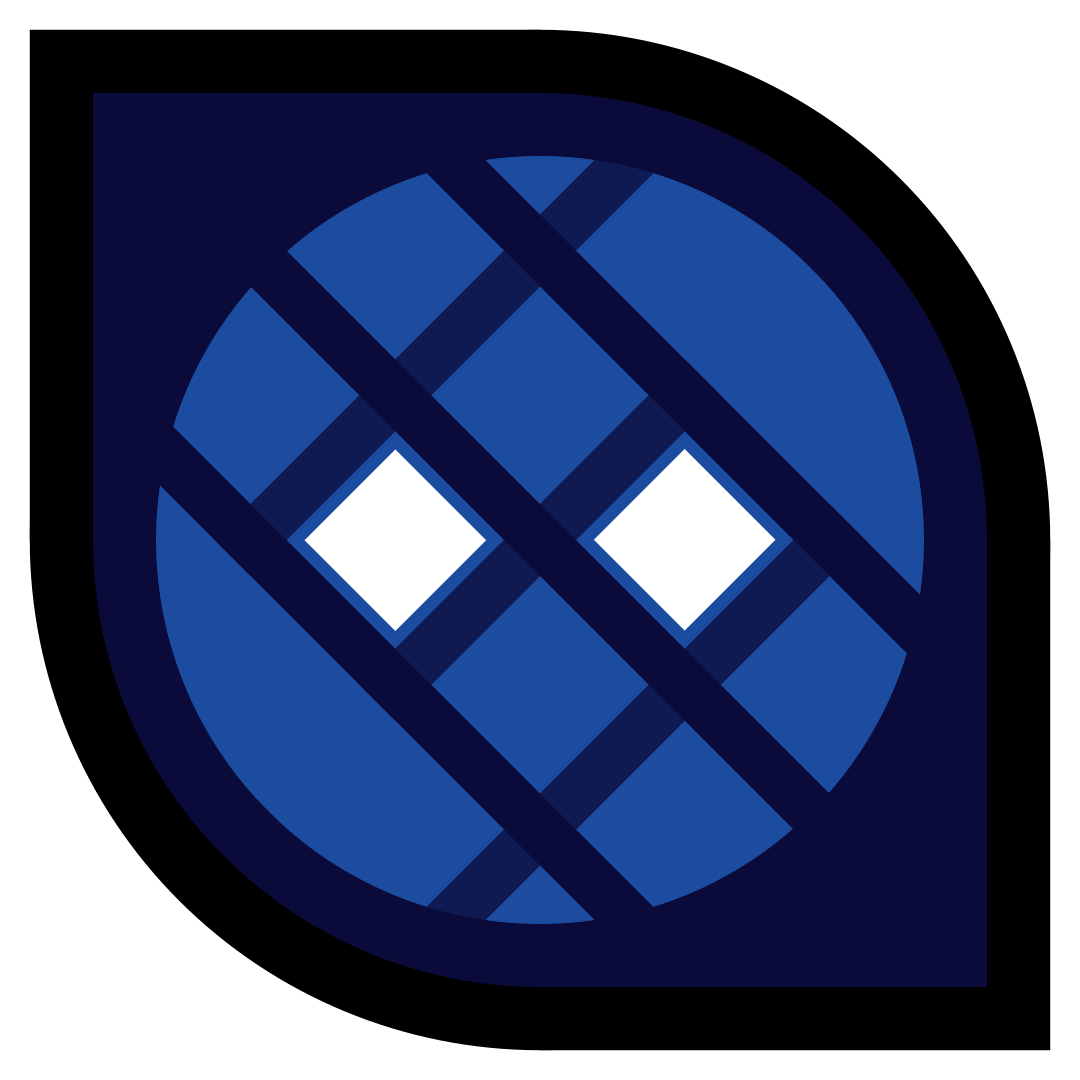
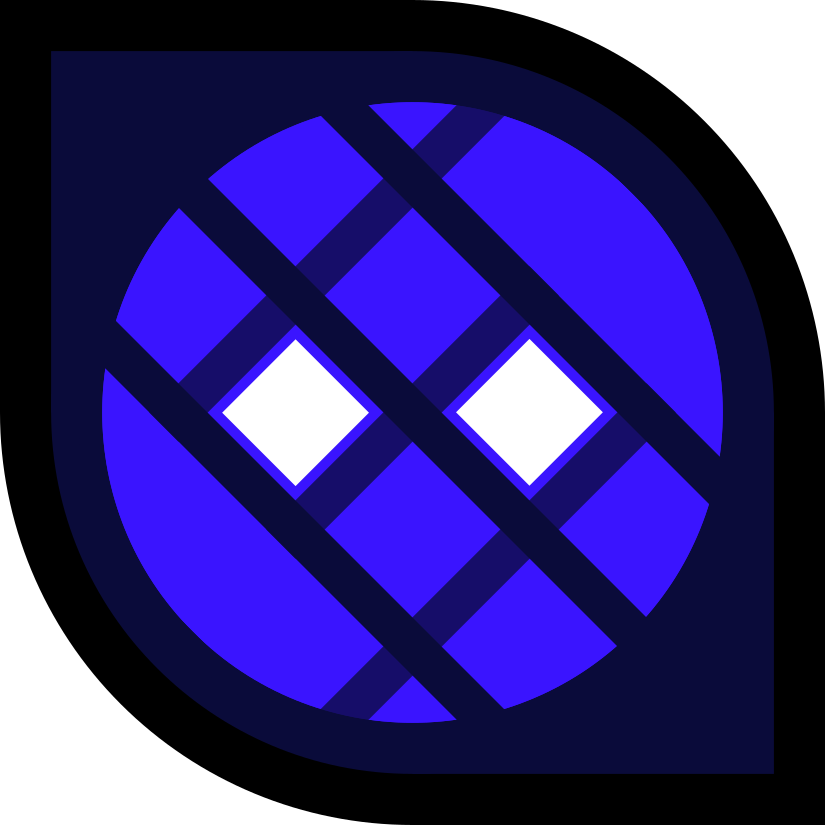
update: version bump 1.0.3 accent: 3a14ff

diff --git a/3o14/components/protected/WebNavigation.tsx b/3o14/components/protected/WebNavigation.tsx
@@ -258,7 +258,7 @@ export const RightSidebar: React.FC<{ theme: ReturnType<typeof useTheme> }> = ({
       <View style={styles.topSection}>
         <Text style={styles.title}>A Decentralized Social Media for Scientific Communication</Text>
         <Text style={styles.description}>
-          A federated social media focusing on scientific communication. We, the people of science, share a universal language of discovery.
+          A federated social media for scientific communicators.
         </Text>
         <Text>-</Text>
         <Text style={styles.description}>

diff --git a/3o14/constants/theme.ts b/3o14/constants/theme.ts
@@ -2,7 +2,7 @@ import type { Theme } from '@/types/theme';
 
 export const LIGHT_THEME: Theme = {
   colors: {
-    primary: '#f00040',
+    primary: '#3a14ff',
     background: '#ffffff',
     text: '#333333',
     textSecondary: 'gray',
@@ -24,7 +24,7 @@ export const LIGHT_THEME: Theme = {
 
 export const DARK_THEME: Theme = {
   colors: {
-    primary: '#f00040',
+    primary: '#3141f0',
     background: '#0f0f0f',
     text: '#ffffff',
     textSecondary: 'gray',

diff --git a/3o14/components/protected/LoginForm.tsx b/3o14/components/protected/LoginForm.tsx
@@ -7,7 +7,7 @@ import { useAuth } from '@/hooks/useAuth';
 import { useTheme } from '@/hooks/useTheme';
 
 export const LoginForm: React.FC = () => {
-  const [server, setServer] = useState('fosstodon.org');
+  const [server, setServer] = useState('');
   const { login, isLoading } = useAuth();
   const theme = useTheme();
 
